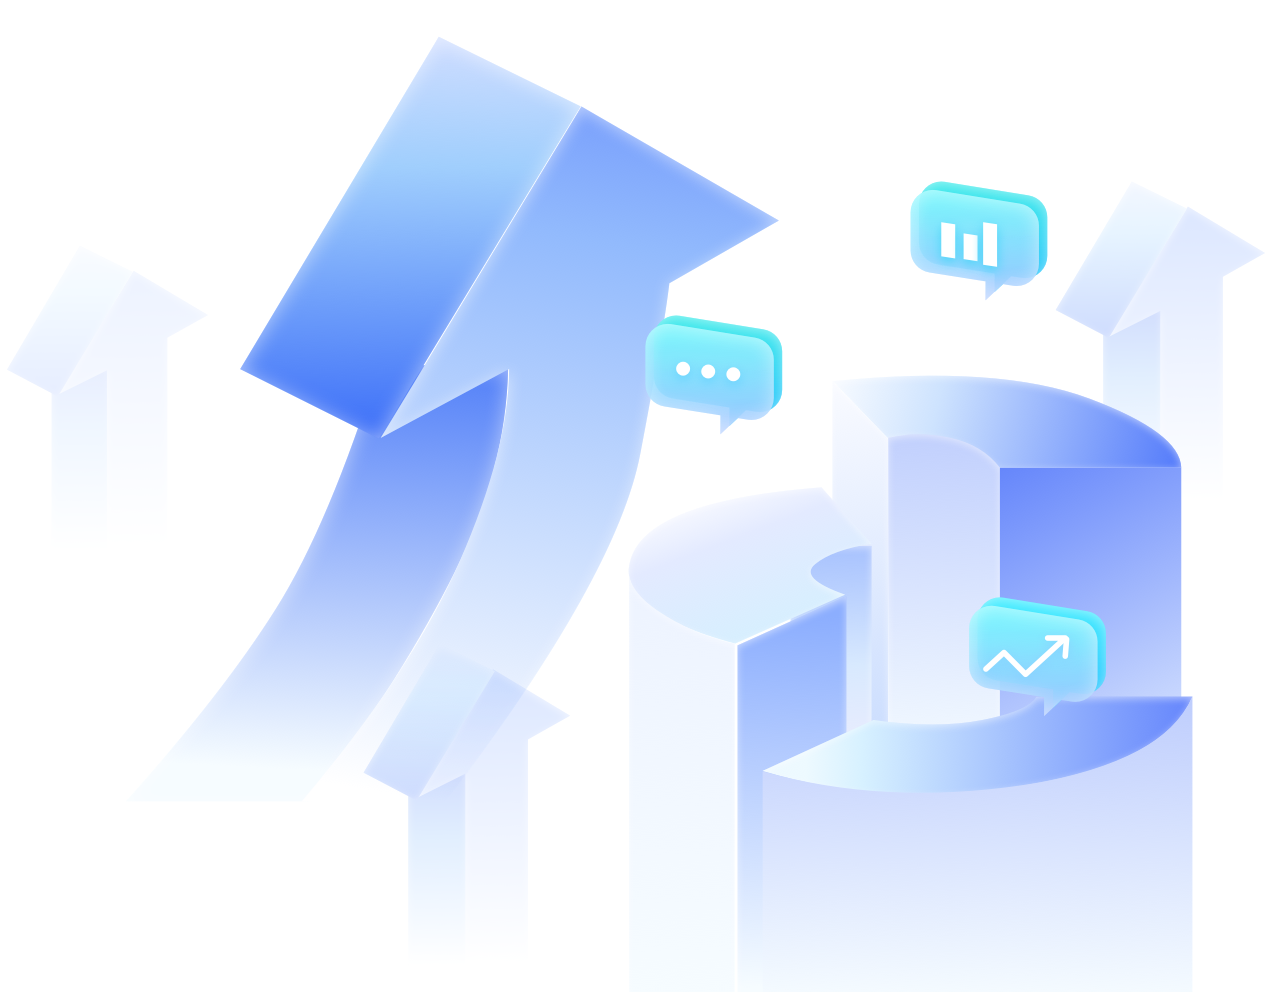
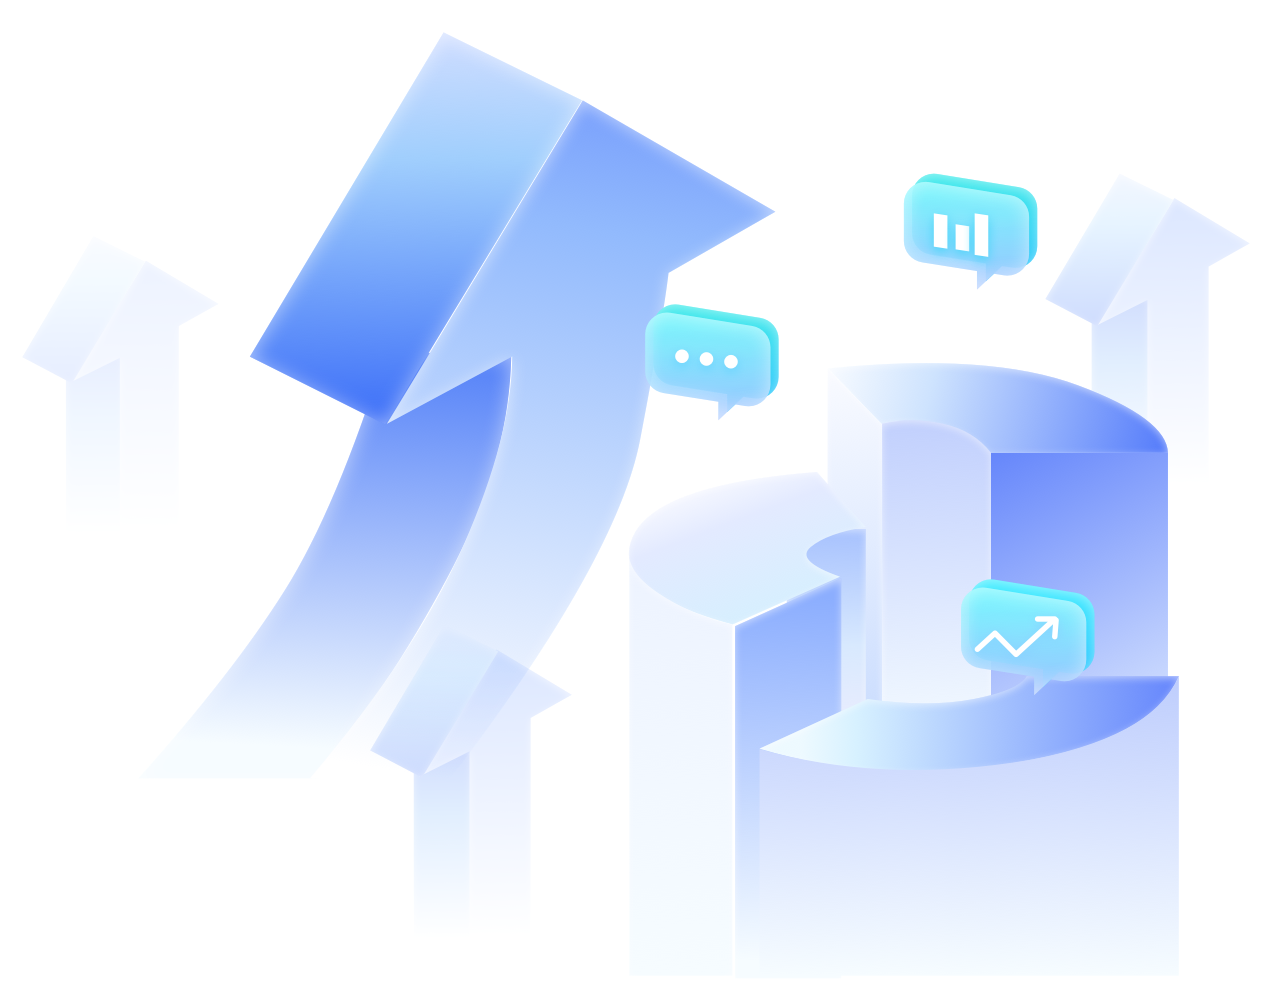
修复第一版

diff --git a/src/components/ai-solution/customerTips.tsx b/src/components/ai-solution/customerTips.tsx
@@ -45,7 +45,7 @@ const HoveUp = styled.div`
 `
 
 const ArrowClick = styled.div`
-    width: 40px;
+width: 18px;
     height: 40px;
     opacity: 1;
     align-self:center;
@@ -54,19 +54,27 @@ const ArrowClick = styled.div`
     align-items: center;
     color:#fff;
     z-index:22;
+    cursor: pointer;
     .left_img{
-      width:100%;
+        width: 18px;
+
+        height: 40px;
     cursor:pointer;
     &:hover {
         content: url(${imgurl}/left_blue.png)
     }
     }
     .right_img {
-        width:100%;
+        width: 18px;
+
+        height: 40px;
         cursor:pointer;
         &:hover {
             content: url(${imgurl}/right_blue.png)
         }
+    }
+    img{
+        margin-bottom: 0;
     }
 `
 const dataList = [
@@ -87,9 +95,13 @@ const dataList = [
         bg: '/syt.png'
     }
 ]
+let imglegt =`${imgurl}/arowl1.png`;
+let imgright =`${imgurl}/arowl2.png`;
 const Carousel: React.FC<ICarouselProps> = ({ style }) => {
     const [controlledSwiper, setControlledSwiper] = useState(null);
     const [currIndex,setCurrIndex] = useState(0);
+    const [arrowbg, setArrowbg] = useState(imglegt);
+    const [arrowbg2, setArrowbg2] = useState(imgright);
     return (
 
         <HoveUp>
@@ -99,8 +111,15 @@ const Carousel: React.FC<ICarouselProps> = ({ style }) => {
             <div style={{ width: '1200px', margin: '0 auto', display: 'flex', justifyContent: 'center' }}>
                 <ArrowClick onClick={e => {
                     const res = controlledSwiper.navigation.onPrevClick(e);
-                }} style={{ marginRight: 30 }}>
-                    <img className="left_img" src={`${imgurl}/arowl1.png`} />
+                }} style={{ marginRight: 30 }}  onMouseEnter={()=>{
+                    // if(currIndex != 0){
+                      setArrowbg(`${imgurl}/arowl1hover.png`)
+                    // }
+                  }}
+                    onMouseLeave={()=>{
+                    setArrowbg(imglegt)
+                  }}>
+                     <img src={arrowbg}  />
                 </ArrowClick>
 
                 <div className='wrap_hovres'>
@@ -135,8 +154,15 @@ const Carousel: React.FC<ICarouselProps> = ({ style }) => {
                 </div>
                 <ArrowClick onClick={e => {
                     controlledSwiper.navigation.onNextClick(e);
-                }} style={{ marginLeft: 30 }}>
-                    <img className="right_img" src={`${imgurl}/arowr1.png`} />
+                }} style={{ marginLeft: 30 }}   onMouseEnter={()=>{
+                    // if(currIndex != 0){
+                      setArrowbg2(`${imgurl}/arowl2hover.png`)
+                    // }
+                  }}
+                    onMouseLeave={()=>{
+                    setArrowbg2(imgright)
+                  }}>
+                  <img src={arrowbg2}  />
                 </ArrowClick>
             </div>
         </HoveUp>

diff --git a/pages/insure/components/IndustryCarousel-2023.tsx b/pages/insure/components/IndustryCarousel-2023.tsx
@@ -80,11 +80,8 @@ const BgContent = styled.div`
     }
   }
   img {
-    width: 534px;
-    height: 525px;
-    position: absolute;
-    top: -150px;
-    right: 0;
+    /* width: 534px; */
+   
   }
 `;
 const BgWrapper = styled.div<{ bg: string }>`
@@ -95,8 +92,21 @@ const BgWrapper = styled.div<{ bg: string }>`
   height: 100%;
   width: 100%;
   pointer-events: all;
-  padding: 152px 0 0 0px;
+  /* padding: 152px 0 0 0px; */
   background: rgba(246, 252, 255, 1);
+  .flexwrap{
+    display: flex;
+    width: 1200px;
+    height: 500px;
+    justify-content: center;
+    align-items: center;
+    margin:0 auto;
+    margin-top: 60px;
+  }
+  .bgimg22{
+    height: 496px;
+    margin-bottom: 0;
+  }
 `;
 
 const BottomContent = styled.div`
@@ -133,7 +143,7 @@ const BottomMain = styled.div`
 
 const Wrapper = styled.div`
 width: 100%;
-  height: 576px;
+  height: 560px;
   position: relative;
   overflow: hidden;
   .carousel-bg-right{
@@ -176,14 +186,17 @@ export const IndustryCarousel: FC<ICarousel> = ({ dataList = [] }) => {
     <Wrapper>
        <div className="carousel-bg-right"></div>
           <BgWrapper>
-            <BgContent>
-              <Title>保险行业<br></br>BPO解决方案</Title>
-              <SubTitle>“大数据+AI+人”三驱模式，为保险客户提供从赠险到长险的全业务链条服务</SubTitle>
-              <img src={imgurl+'/bxjfbanner.png'}></img>
-              <div className="jumpbtn" scale={0.8} onClick={() => setForm()}>
-                预约体验
-              </div>
-            </BgContent>
+            <div className='flexwrap'>
+                <BgContent>
+                  <Title>保险行业<br></br>BPO解决方案</Title>
+                  <SubTitle>“大数据+AI+人”三驱模式，为保险客户提供从赠险到长险的全业务链条服务</SubTitle>
+                  <div className="jumpbtn" scale={0.8} onClick={() => setForm()}>
+                    预约体验
+                  </div>
+                </BgContent>
+                <img src={imgurl+'/bxjfbanner.png'} className='bgimg22'></img>
+            </div>
+           
           </BgWrapper>
     </Wrapper>
   );

diff --git a/src/retail/components/IndustryCarousel-2023.tsx b/src/retail/components/IndustryCarousel-2023.tsx
@@ -96,8 +96,21 @@ const BgWrapper = styled.div<{ bg: string }>`
   width: 100%;
   opacity: 0;
   transition: opacity 0.3s ease-in;
-  padding: 152px 0 0 0px;
+  /* padding: 152px 0 0 0px; */
   pointer-events: none;
+  .flexwrap{
+    display: flex;
+    width: 1200px;
+    height: 500px;
+    justify-content: center;
+    align-items: center;
+    margin:0 auto;
+    margin-top: 60px;
+  }
+  .bgimg22{
+    height: 496px;
+    margin-bottom: 0;
+  }
   &::after {
     z-index: -1;
     pointer-events: none;
@@ -300,16 +313,22 @@ export const IndustryCarousel: FC<ICarousel> = ({ dataList = [] }) => {
       {dataList.map(({ bg, title, subTitle }, i) => {
         return (
           <BgWrapper className={classNames({ active: i === currIndex })} bg={bg}>
+            
+            <div className='flexwrap'>
             <BgContent>
               <Title>品牌零售<br></br>智能用户运营解决方案</Title>
               {subTitle.map(str => {
                 return <SubTitle>{str}</SubTitle>;
               })}
-              <img src={imgurl+'/retail_carousel.png'}></img>
               <div className="jumpbtn" onClick={() => setForm()}>
                 预约体验
               </div>
+
+             
             </BgContent>
+            <img src={imgurl+'/retail_carousel.png'} className='bgimg22'/>  
+             
+            </div>
           </BgWrapper>
         );
       })}

diff --git a/pages/retail/index.tsx b/pages/retail/index.tsx
@@ -250,7 +250,7 @@ const HomePage: NextFunctionComponent<{ data: any }> = ({ data }) => {
               btnText="与我联系"
               background={`url(${FOOTER_BG})`}
               onClick={() => {
-                setFormVisible(true, FormType.CUSTOMER);
+                window.open('/form?formType=1')
               }}
             />
             {/* <ByVoiceFooter

diff --git a/pages/insure/index.tsx b/pages/insure/index.tsx
@@ -38,7 +38,7 @@ const Game:NextFunctionComponent<IGameProps>=()=>{
             btnText="与我联系"
             background={`url(${FOOTER_BG})`}
             onClick={() => {
-              setFormVisible(true, FormType.CUSTOMER);
+              window.open('/form?formType=1')
             }}
           />
             </Visible>

diff --git a/pages/unfraud/index.tsx b/pages/unfraud/index.tsx
@@ -36,7 +36,7 @@ const Game:NextFunctionComponent<IGameProps>=()=>{
             btnText="与我联系"
             background={`url(${FOOTER_BG})`}
             onClick={() => {
-              setFormVisible(true, FormType.CUSTOMER);
+              window.open('/form?formType=1')
             }}
           />
             </Visible>

diff --git a/pages/index.tsx b/pages/index.tsx
@@ -162,7 +162,7 @@ const [cauindex,setCauindex] = useState(0);
             btnText="与我联系"
             background={`url(${FOOTER_BG})`}
             onClick={() => {
-              setFormVisible(true, FormType.CUSTOMER);
+              window.open('/form?formType=1')
             }}
           />
         </Wrapper>

diff --git a/pages/unfraud/components/CustomerStories.tsx b/pages/unfraud/components/CustomerStories.tsx
@@ -95,6 +95,9 @@ position: relative;
         position: absolute;
         bottom: 32px;
         cursor: pointer;
+        &::after {
+              content: ' →';
+            }
         &:hover {
             &::after {
               content: ' →';

diff --git a/pages/insure/components/CustomerCase.tsx b/pages/insure/components/CustomerCase.tsx
@@ -123,6 +123,9 @@ margin-top: 17px;
         position: absolute;
         bottom: 32px;
         cursor: pointer;
+        &::after {
+            content: ' →';
+          }
         &:hover {
           &::after {
             content: ' →';

diff --git a/src/components/IndustryCarousel-2023.tsx b/src/components/IndustryCarousel-2023.tsx
@@ -113,7 +113,7 @@ const CarouselWrapper = styled.div`
   .bg-img-blue{
     position:absolute;
     right: -47px;
-    top: 80px;
+    top: 65px;
     img{
       height:434px;
     }
